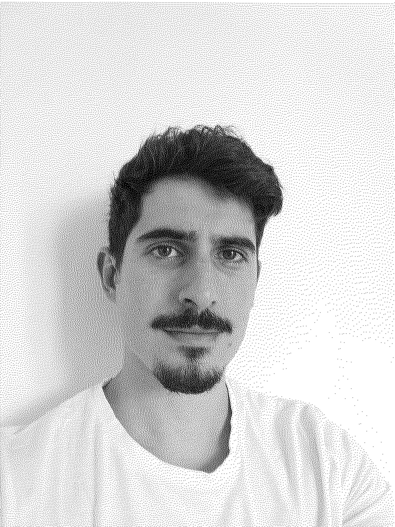
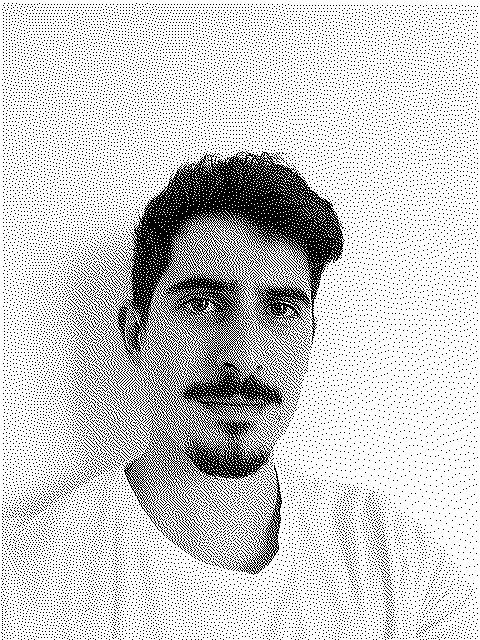
added about me

diff --git a/content/about/_index.md b/content/about/_index.md
@@ -3,9 +3,11 @@ title: "About Me"
 date: 2022-07-30T22:44:41+02:00
 draft: false
 ---
+![](/about/profile_picture_circle.png)
 
 I am Filippo Guarda, an automation engineer with a passion for robotics, stand-up comedy and outdoor activities.
 
-In my academic and working life I acquired experience with several tools, programming languages and frameworks, some of these are: **ROS/ROS2**, **Python**, **C++** and **Automation Studio**
+In my academic and working life I acquired experience with several tools, programming languages and frameworks, some of these are: **ROS/ROS2**, **Python**, **C++** and **Automation Studio**.  
 
-![](/about/profile_picture.png)
+While in the process of learning **Go**, I discovered Hugo: a golang-based static website generator. I felt the urge to create a personal blog.  
+Here it is, have fun.

diff --git a/content/posts/_index.md b/content/posts/_index.md
@@ -1,0 +1,7 @@
+---
+title: "Posts"
+date: 2022-08-01T02:24:40+02:00
+draft: false
+---
+
+## DISCLAIMER: the following posts represent the near-autistic ramblings of an opinionated engineer, reader beware.

diff --git a/content/posts/still_nothing.md b/content/posts/still_nothing.md
@@ -1,0 +1,7 @@
+---
+title: "Still_nothing"
+date: 2022-08-01T02:24:40+02:00
+draft: false
+---
+
+Maybe I'm too lazy, maybe I'm too overburdened with work, but this section is still empty.
